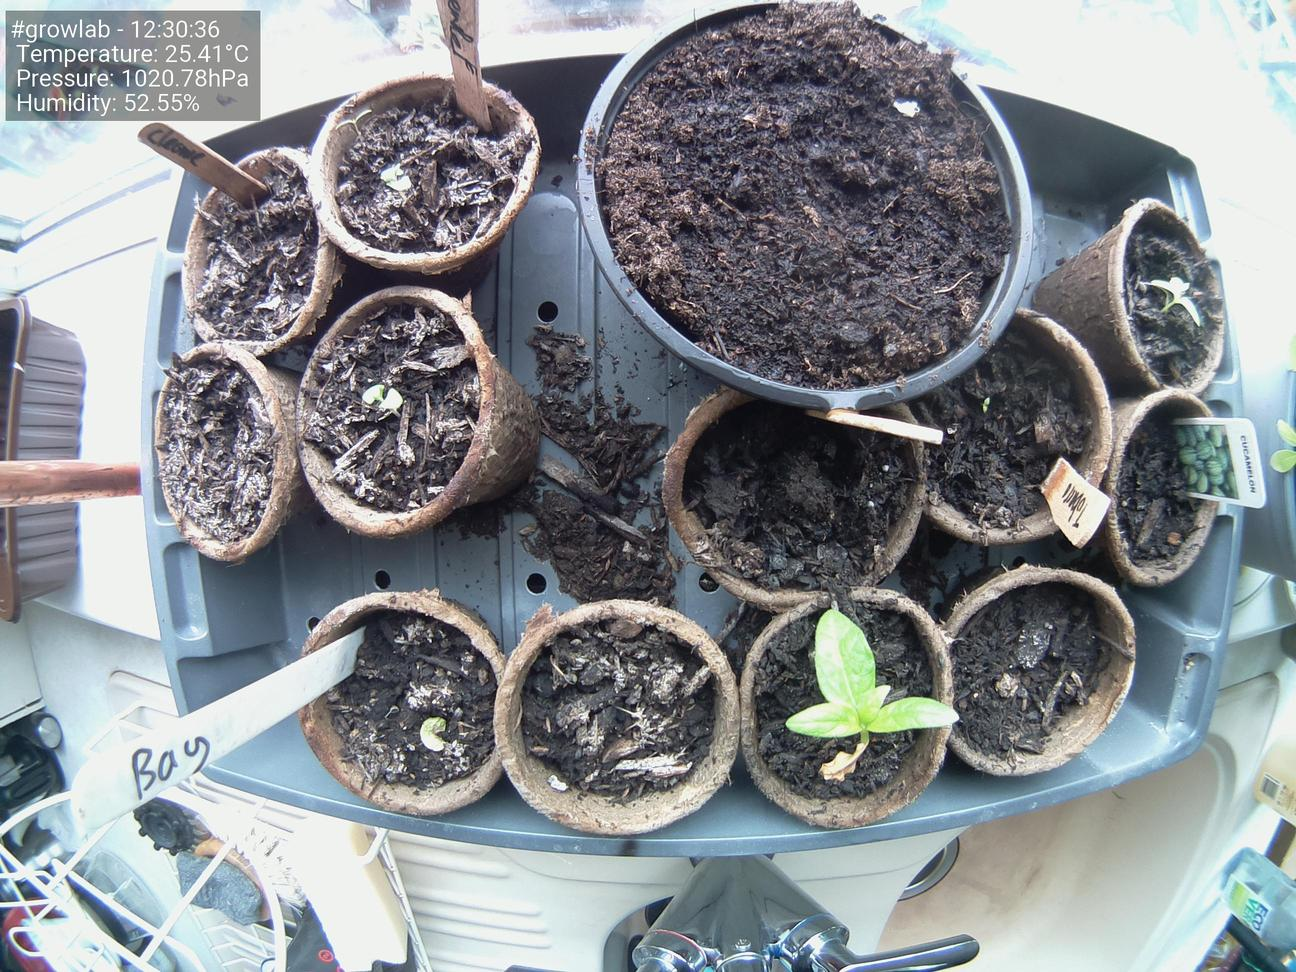
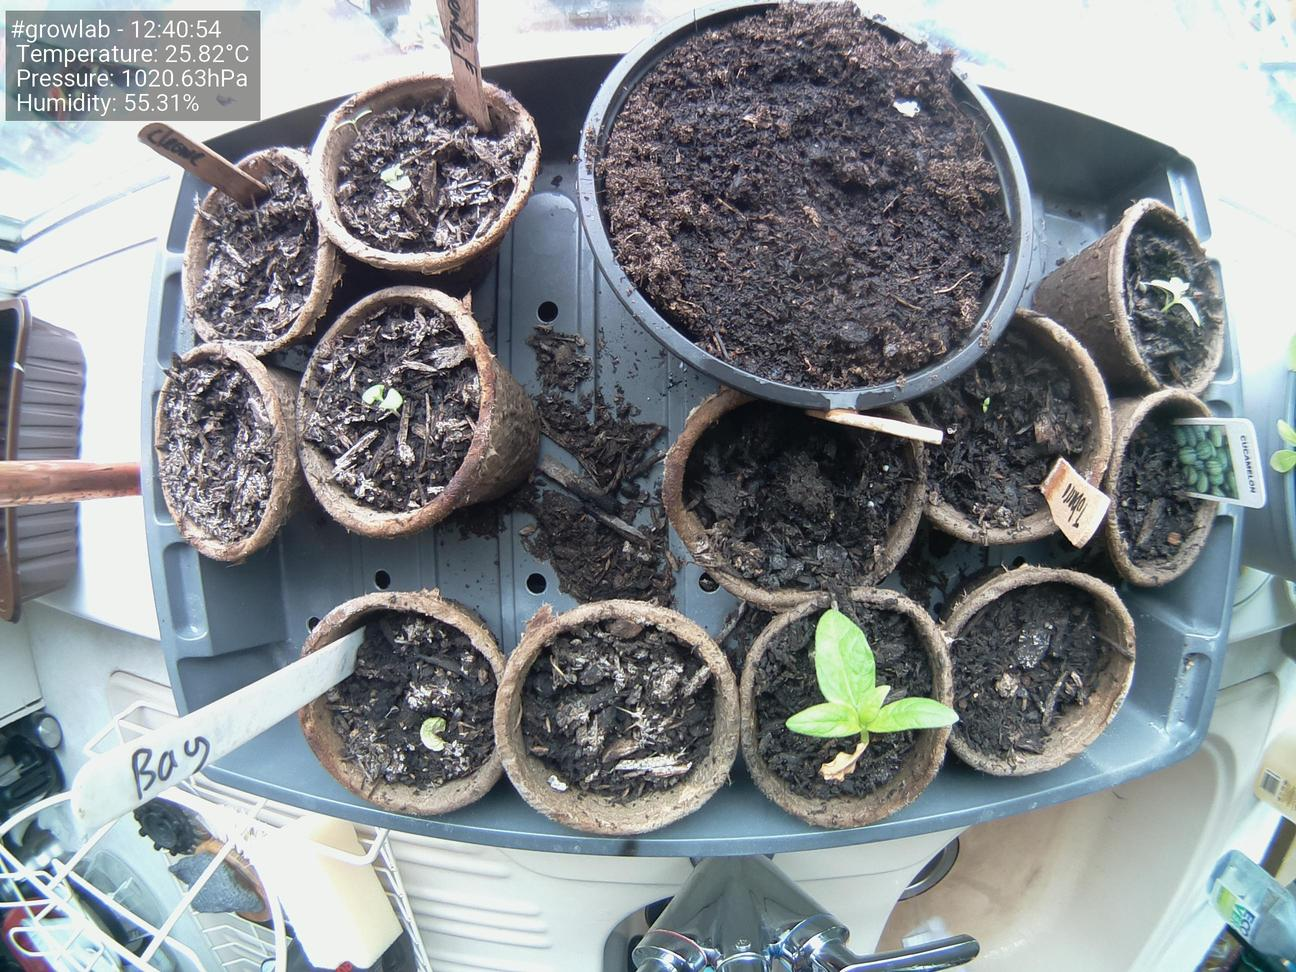
Update images at Thu 24 Jun 12:41:03 BST 2021

diff --git a/docs/index.html b/docs/index.html
@@ -47,19 +47,19 @@
                         <tbody>
                             <tr>
                                 <td>Time</td>
-                                <td>12:30:36</td>
+                                <td>12:40:54</td>
                             </tr>
                             <tr>
                                 <td>Temperature</td>
-                                <td>25.41°C</td>
+                                <td>25.82°C</td>
                             </tr>
                             <tr>
                                 <td>Humidity</td>
-                                <td>52.55%</td>
+                                <td>55.31%</td>
                             </tr>
                             <tr>
                                 <td>Pressure</td>
-                                <td>1020.78hPa</td>
+                                <td>1020.63hPa</td>
                             </tr>
                         </tbody>
                     </table>
@@ -67,7 +67,7 @@
 
                 <h5>Latest image</h5>
                 <div style="width: 85%;">
-                            <img class="figure-img img-fluid rounded" src="./preview.jpg?uid=1624534244.877938">
+                            <img class="figure-img img-fluid rounded" src="./preview.jpg?uid=1624534863.3725376">
                 </div>
             </div>
         </div>
